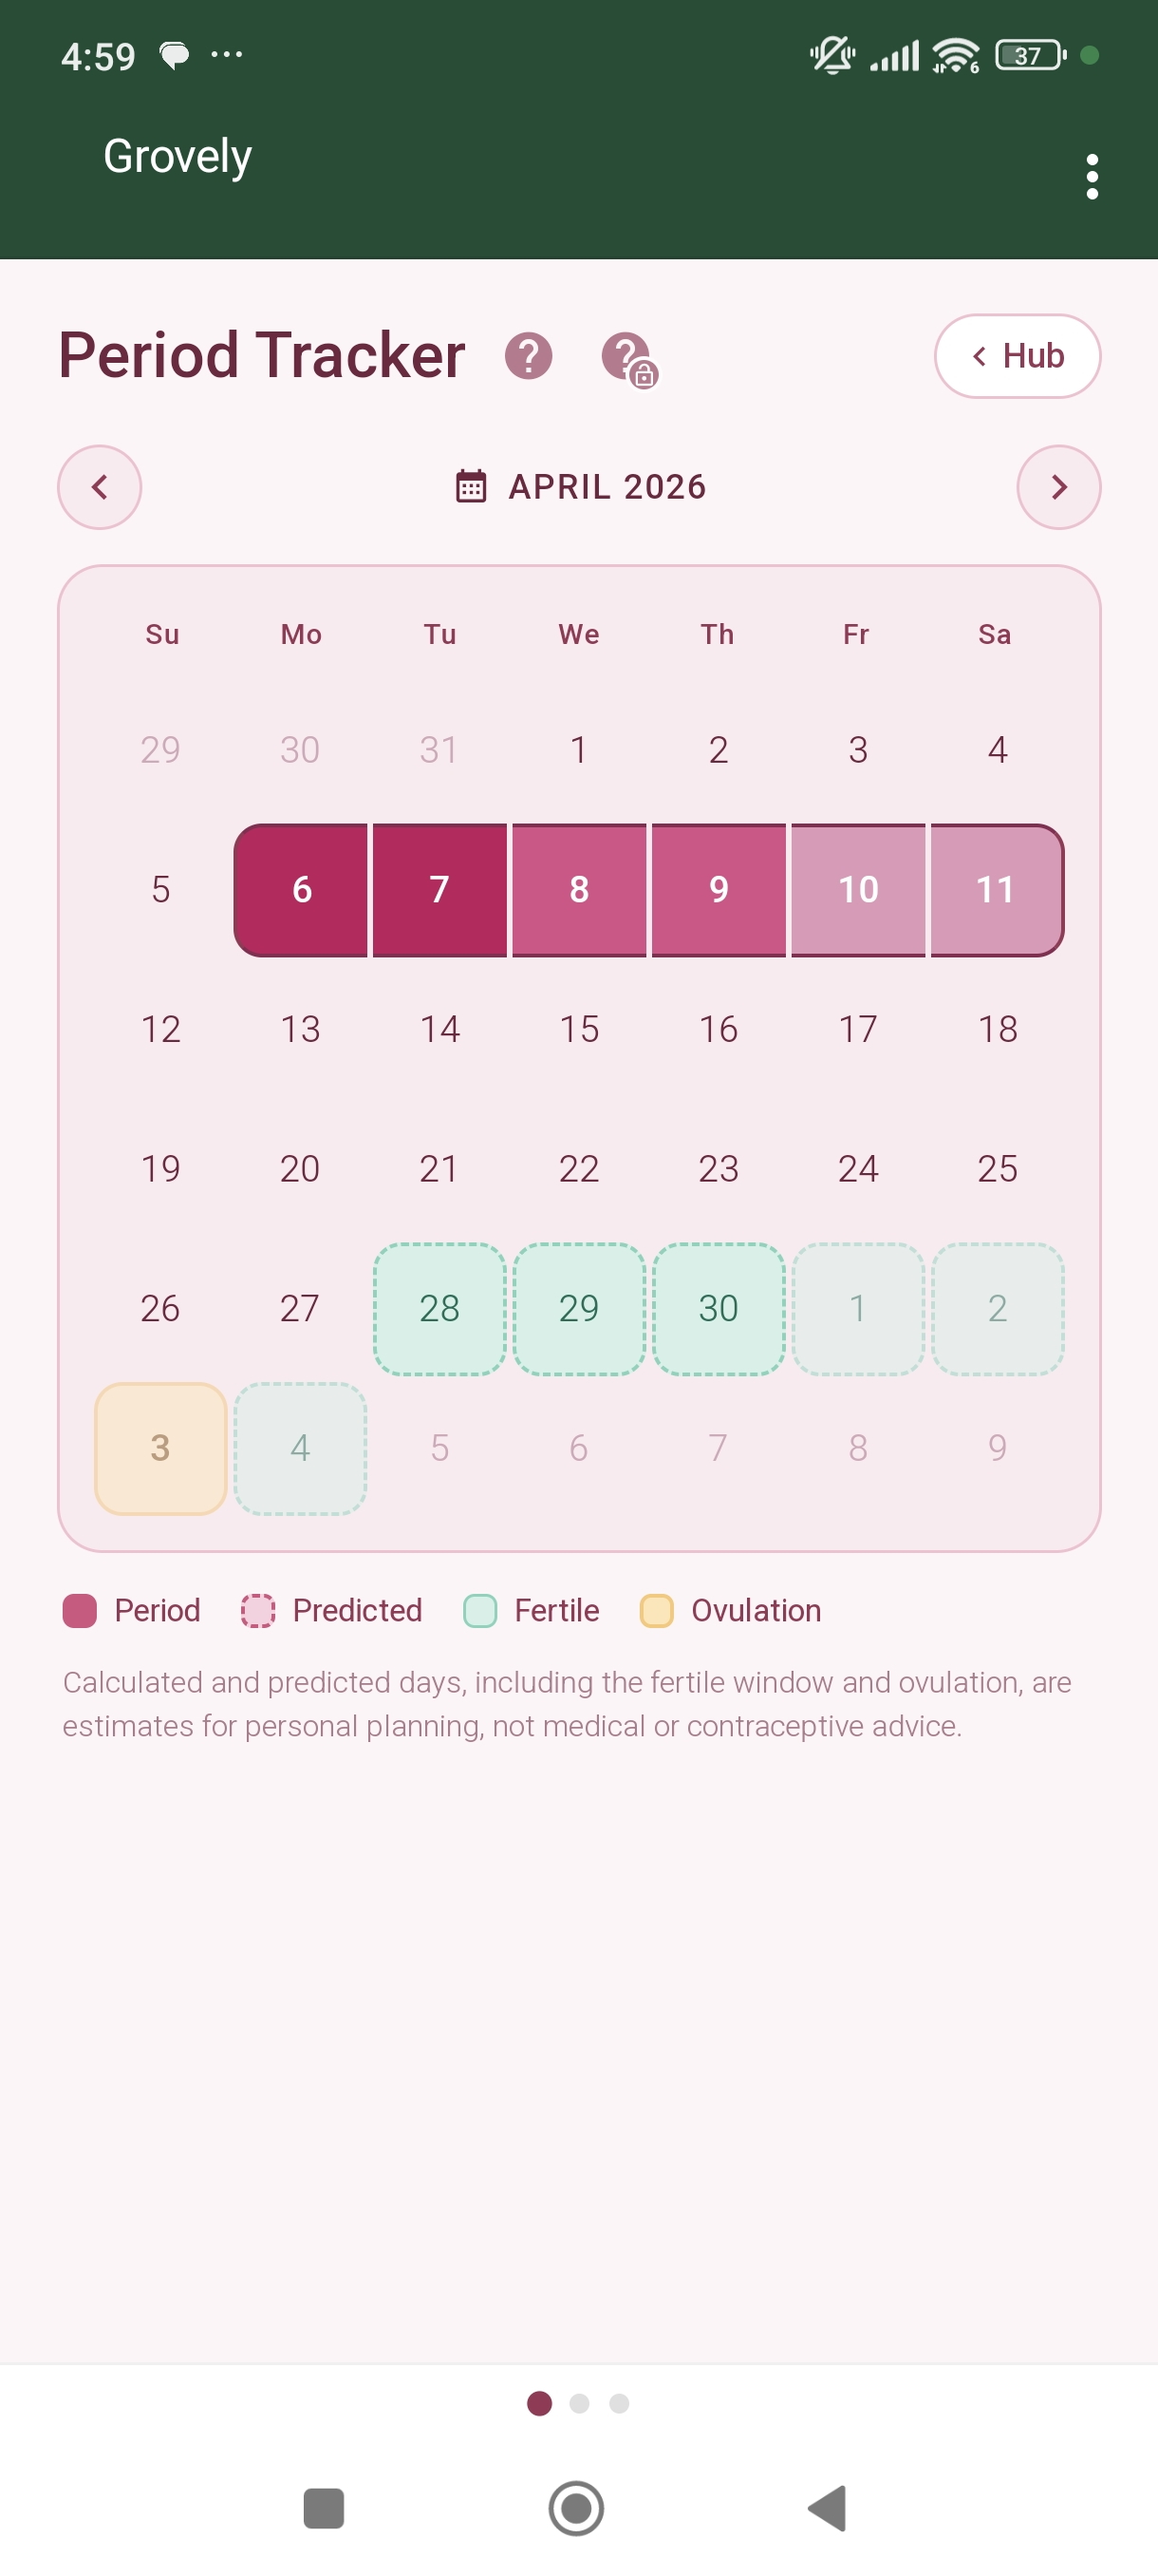
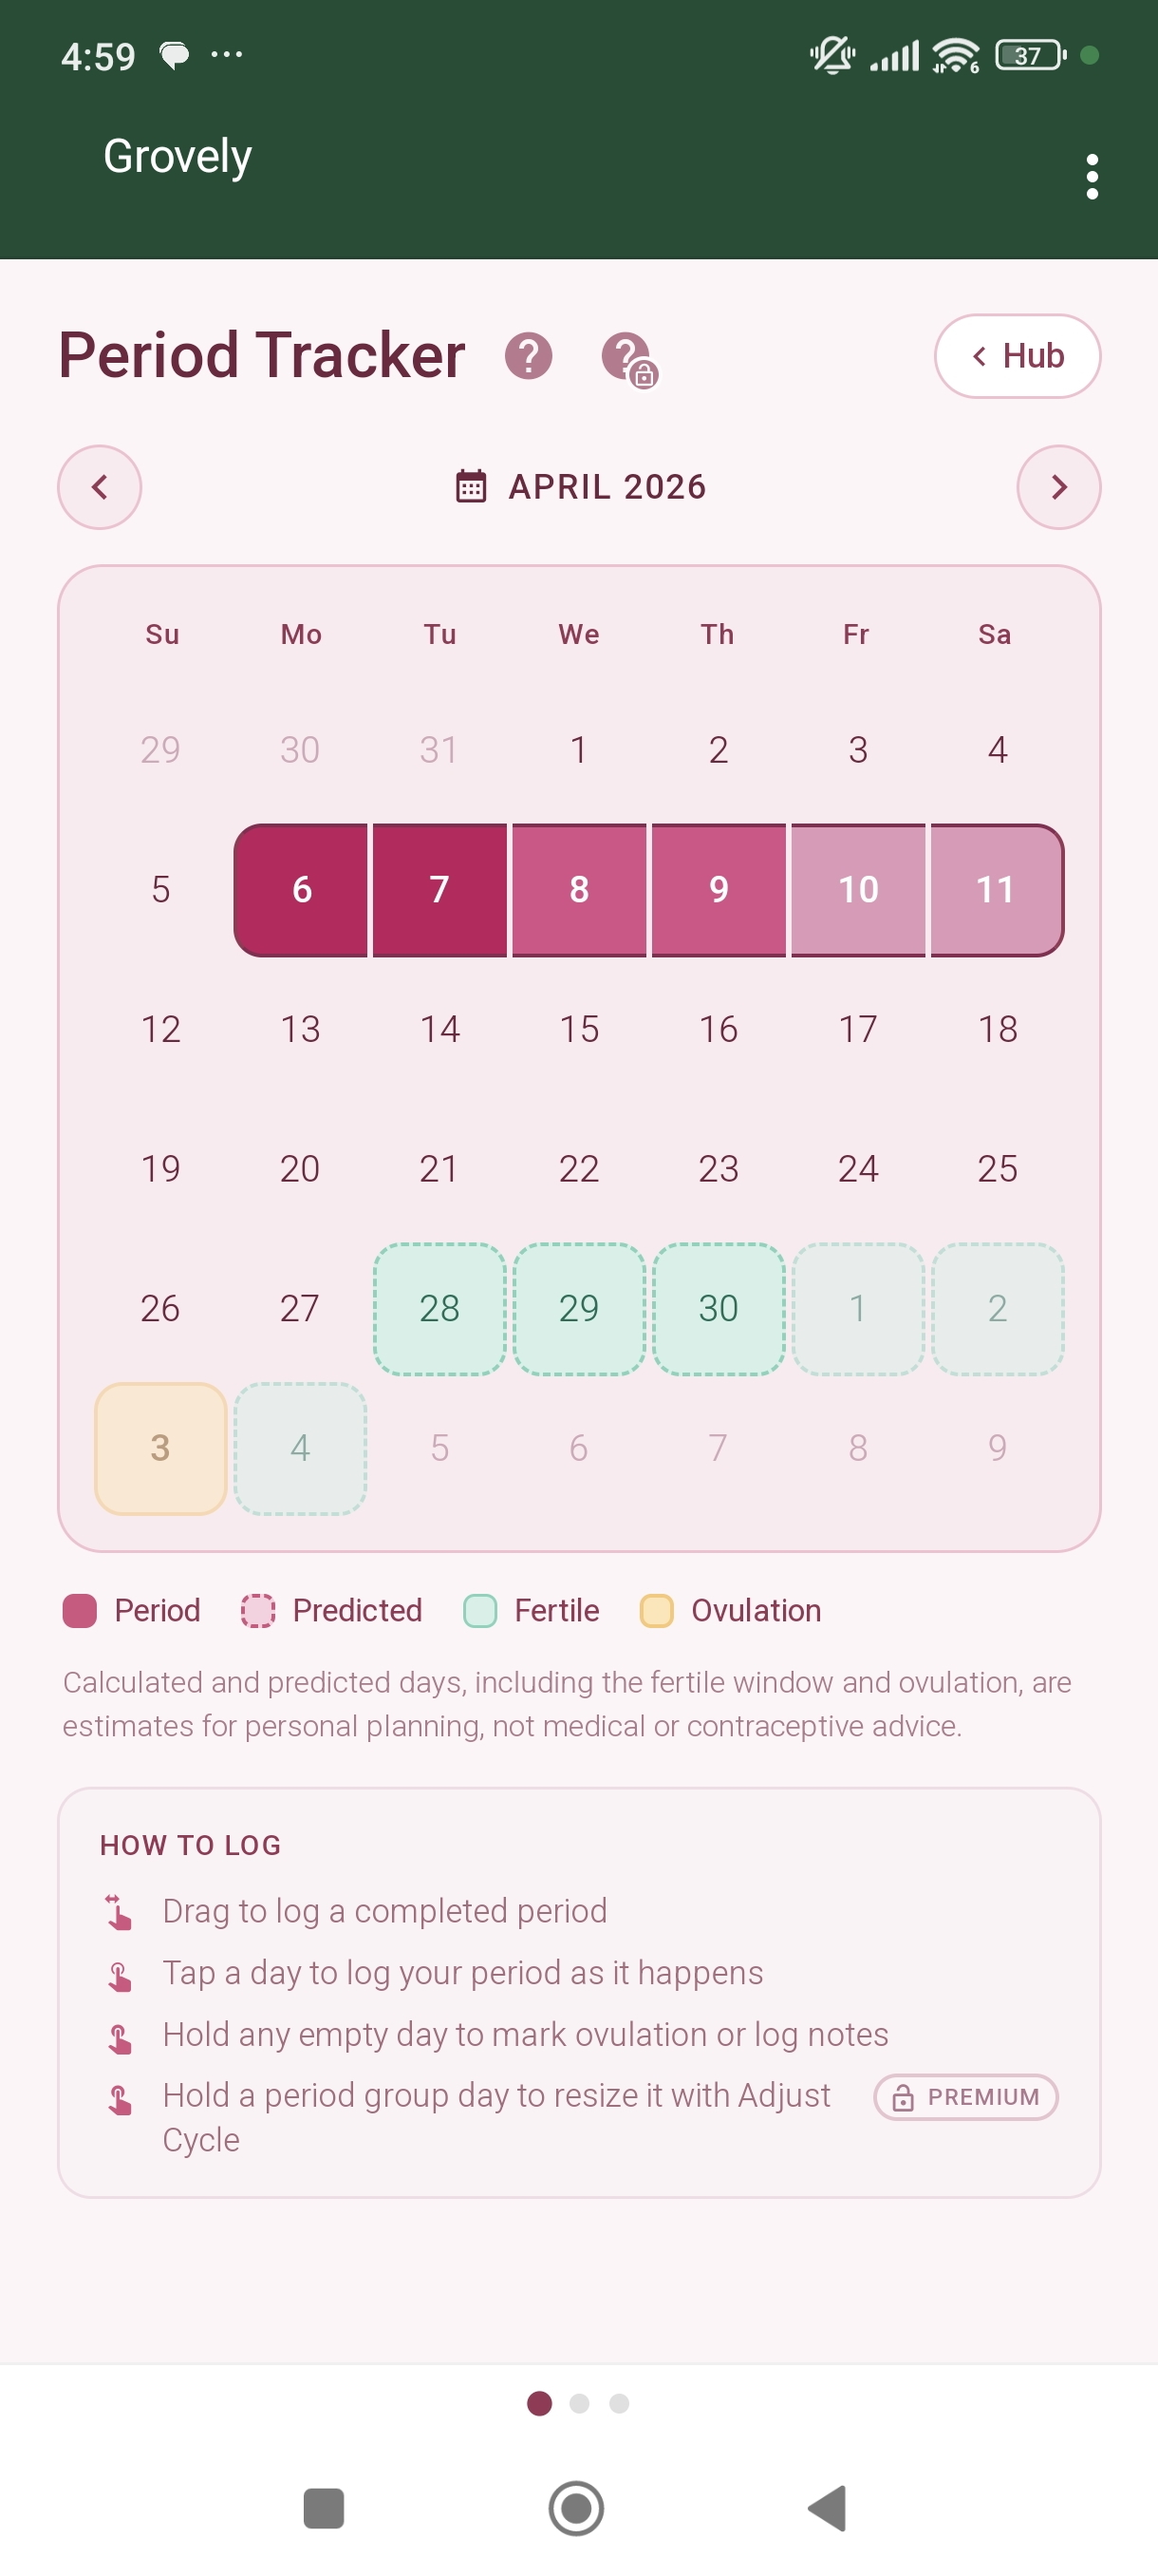
v0.12.10 - README and LICENSE cleanup for launch
- Added project copyright notice to LICENSE
- Centered personal intro paragraph
- Added Current Phase card (premium) and delete cycle (free) to feature list
- Consolidated Smart Autofill as named premium feature
- Corrected notification count to 18
- Roadmap dates updated to Q3/Q4 2026
- Added multi-language (Q4) and themes (Future) to roadmap
- Updated period tracker screenshot

diff --git a/README.md b/README.md
@@ -17,7 +17,7 @@
 
 <p align="center">Self-hosted household hub with couples support - period tracking, shared pantry, and more on the way.</p>
 
-When my wife and I moved in together, we realized every period tracker charged $40/year and sold the data, and nothing handled the rest of the household either. So I built Grovely. Every problem we ran into became a feature that tied everything together, and there's so much more we want to build.
+<p align="center">When my wife and I moved in together, we realized every period tracker charged $40/year and sold the data, and nothing handled the rest of the household either. So I built Grovely. Every problem we ran into became a feature that tied everything together, and there's so much more we want to build.</p>
 
 <p align="center">
   <img src="grovely-frontend/src/assets/Mobile Period Tracker.jpg" width="30%" />
@@ -36,6 +36,8 @@ When my wife and I moved in together, we realized every period tracker charged $
 - Cycle predictions powered by exponential smoothing - adapts to your history, learns your personal luteal phase length, self-corrects from past errors
 - Confidence window for irregular cycles - shows a range instead of a false precise date
 - Irregularity detection and data quality warnings (future-dated cycles, short gaps, abnormally long periods)
+- Delete a single day from a cycle edge, or delete a complete cycle
+- Current Phase card - shows today's phase (follicular, ovulatory, luteal, menstrual) with a confidence label based on logged data or prediction (premium)
 - Adjust Cycle - hold-drag to resize a cycle's start or end without deleting and re-logging (premium)
 - Animated onboarding tutorial covering all three logging flows
 - Full cycle history with detail view per cycle
@@ -46,14 +48,13 @@ When my wife and I moved in together, we realized every period tracker charged $
 - Categories, quantities, units, and price tracking per item
 - Move-to-pantry flow - checked items transfer to inventory with an optional expiry date
 - Expiry tracking with 5 visual states (fresh, expiring soon, expiring very soon, expires today, expired)
-- Autocomplete on the add field backed by your purchase history - pre-fills quantity, unit, price, and store
 - Suggested expiry on move-to-pantry based on past shelf life for that item
 - Merge hints when adding an item that already exists in the pantry ("Adds 500 ml to existing")
-- Price delta labels showing how the current price compares to what you last paid (premium)
+- Smart Autofill - autocomplete backed by your full purchase history, pre-fills quantity, unit, price, and store with a price delta so you know if it's more expensive than usual (premium)
 
 ### Notifications
 
-- 15 email notification types covering period alerts, fertile window, partner-facing nudges, and pantry expiry (premium)
+- 18 email notification types covering period alerts, fertile window, partner-facing nudges, and pantry expiry (premium)
 - Daily cron at a configurable time with startup catch-up for missed windows
 - Works with any SMTP provider - Gmail, Resend, Mailgun, self-hosted
 - Fully opt-in: no emails sent unless you configure SMTP credentials
@@ -81,15 +82,16 @@ When my wife and I moved in together, we realized every period tracker charged $
 
 ## Roadmap
 
-**Next (Summer 2026)**
+**Next (Q3 2026)**
 - SSO/OIDC support - Authelia, Authentik, Cloudflare Access
 - Sleep tracker - manual logging, weekly chart, morning nudge notification, partner sync (premium)
-- Pantry premium expansion - shopping wizard, saved templates, Home Assistant webhook, spending analytics
+- Pantry premium expansion - waste and use tracking with monthly summaries, reorder suggestions based on your repurchase history, store price analytics, shopping wizard, Home Assistant webhook (premium)
 
-**Later (Autumn 2026)**
+**Later (Q4 2026)**
 - Exercise tracker - log workouts, phase-aware energy suggestions, cycle correlation (premium)
-- Advanced period analytics - symptom pattern prediction, trend detection, BBT and OPK logging (premium)
+- Advanced period analytics - cycle data export (CSV/PDF), symptom pattern prediction, trend detection, cycle correlation over time, BBT and OPK logging (premium)
 - Push notifications for browser and PWA
+- Multi-language support
 
 **Future**
 - Recipes with cycle-phase matching and pantry crossover ("what can I cook with what's in the pantry?")
@@ -97,6 +99,7 @@ When my wife and I moved in together, we realized every period tracker charged $
 - Shared weekly digest for both partners
 - Symptom-triggered suggestions across features (recipes, exercise, partner nudges)
 - Android and iOS native apps
+- Themes
 
 ## Quick Start
 

diff --git a/CHANGELOG.md b/CHANGELOG.md
@@ -5,6 +5,20 @@ record; the in-app "What's New" panel shows a short summary of major releases on
 
 ---
 
+## v0.12.10 - README and LICENSE cleanup
+*June 11, 2026*
+
+- Added project copyright notice to LICENSE file
+- Centered personal intro paragraph on README
+- Added Current Phase card (premium) and delete cycle (free) to README feature list
+- Consolidated Smart Autofill as a named premium feature in README
+- Corrected notification count to 18 in README
+- Roadmap dates updated to Q3/Q4 2026
+- Added multi-language support (Q4) and themes (Future) to roadmap
+- Updated period tracker screenshot
+
+---
+
 ## v0.12.9 - Prediction stability, mobile polish, install docs
 *June 9, 2026*
 
